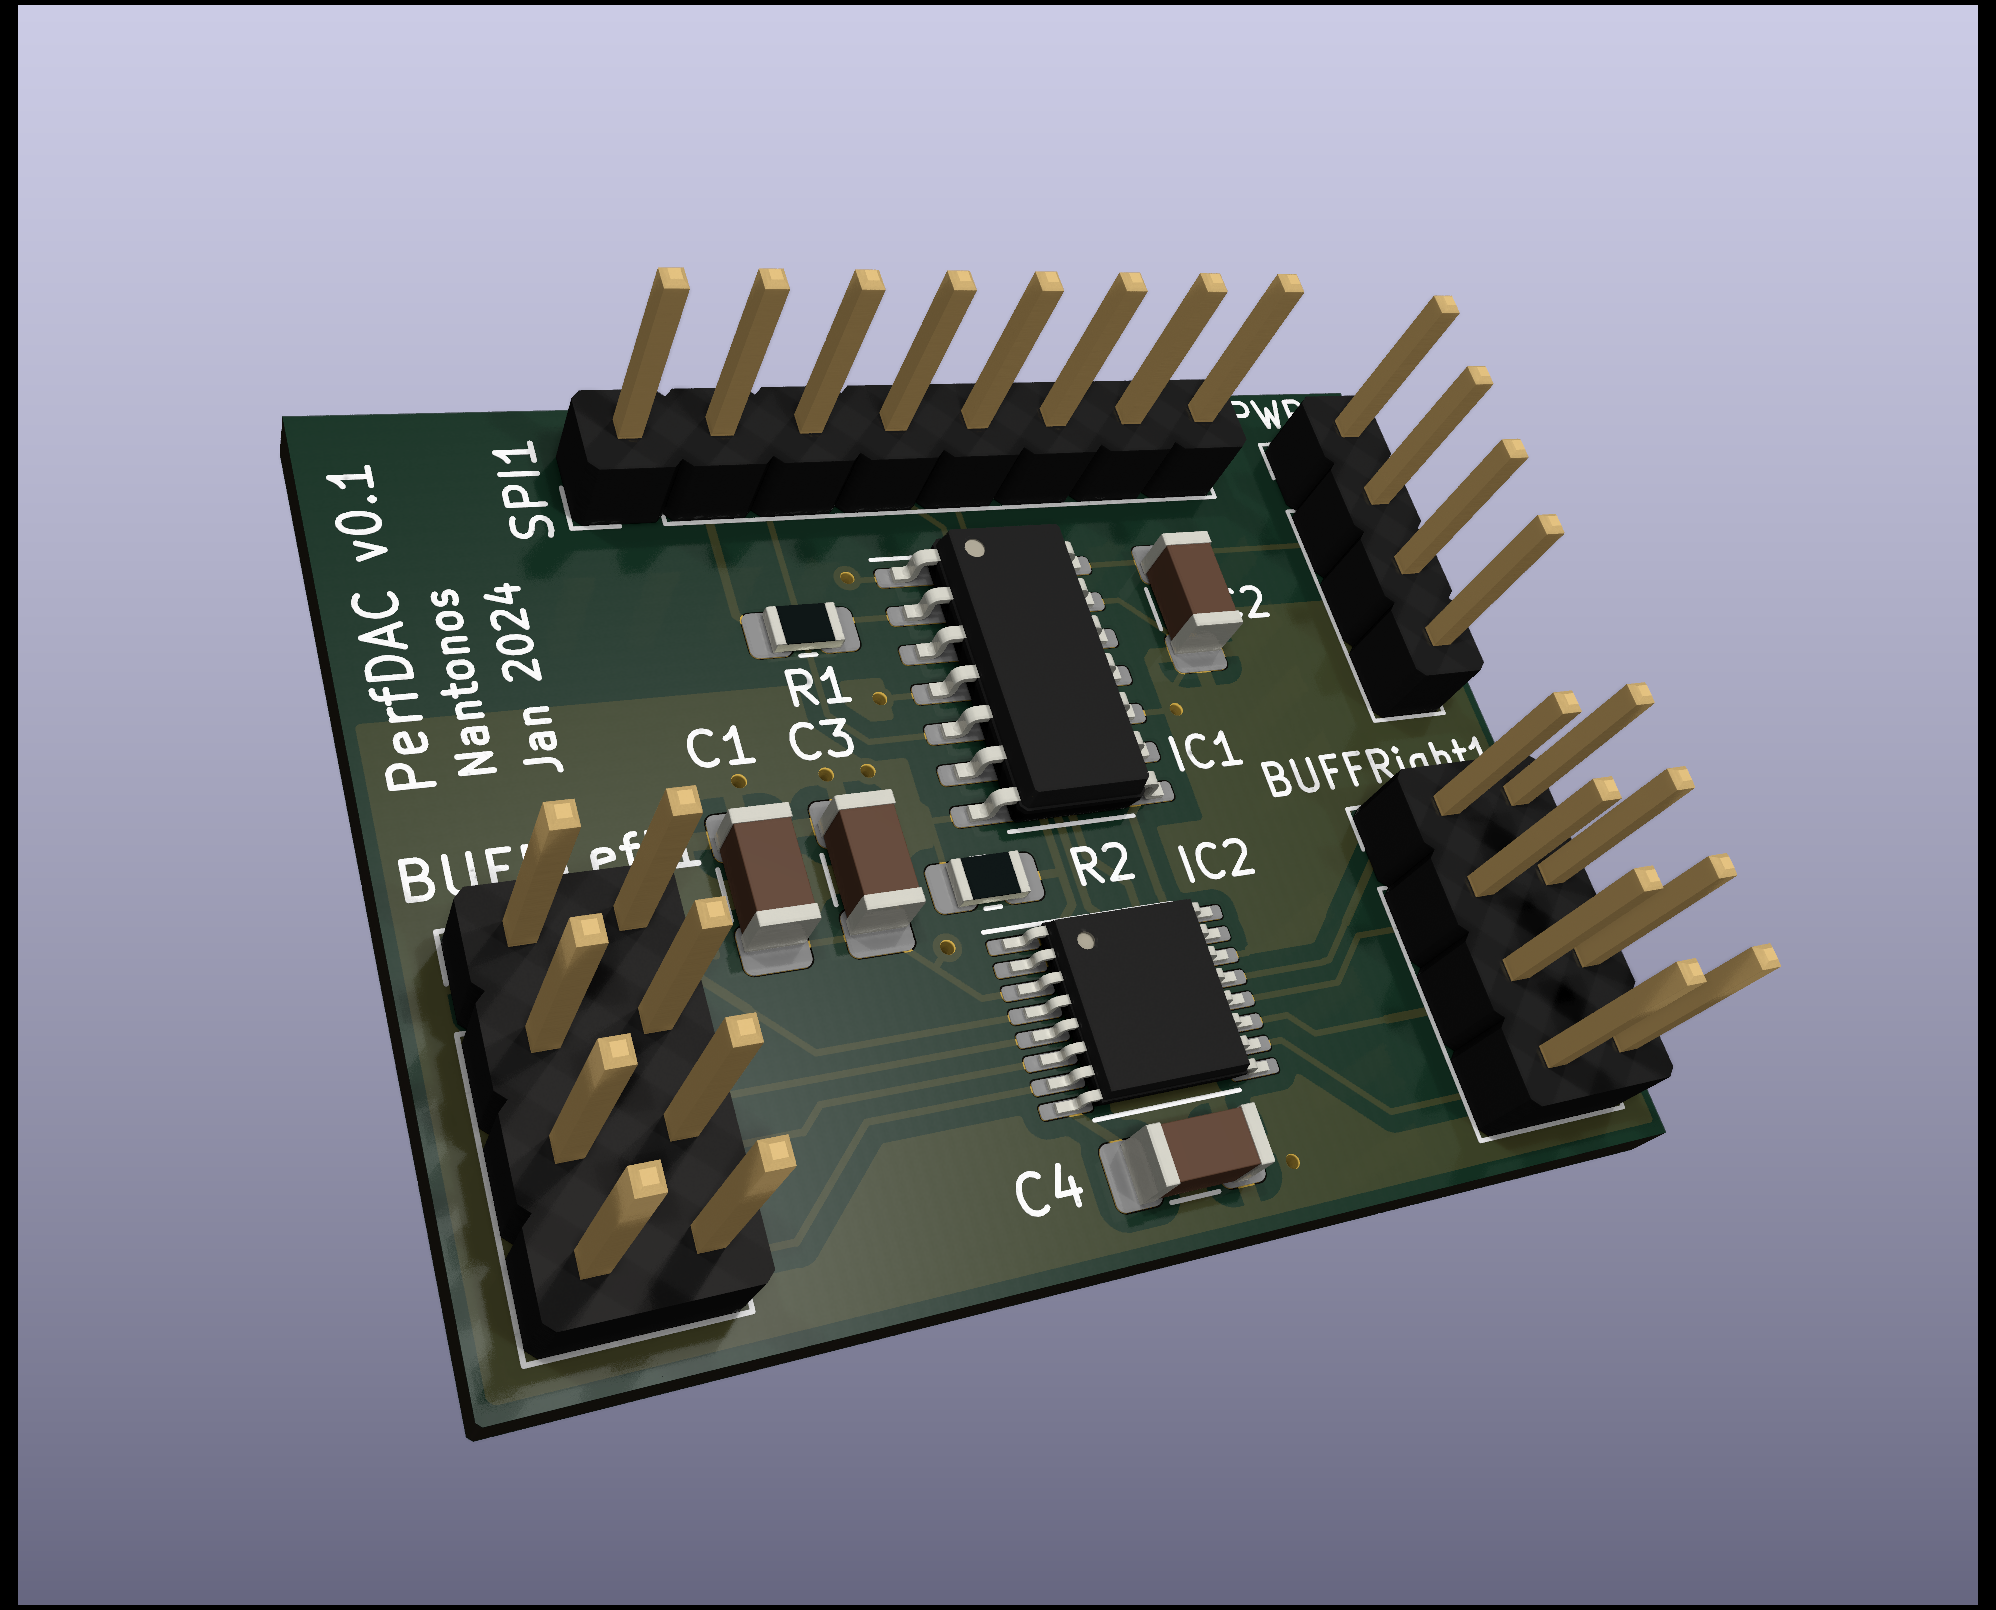
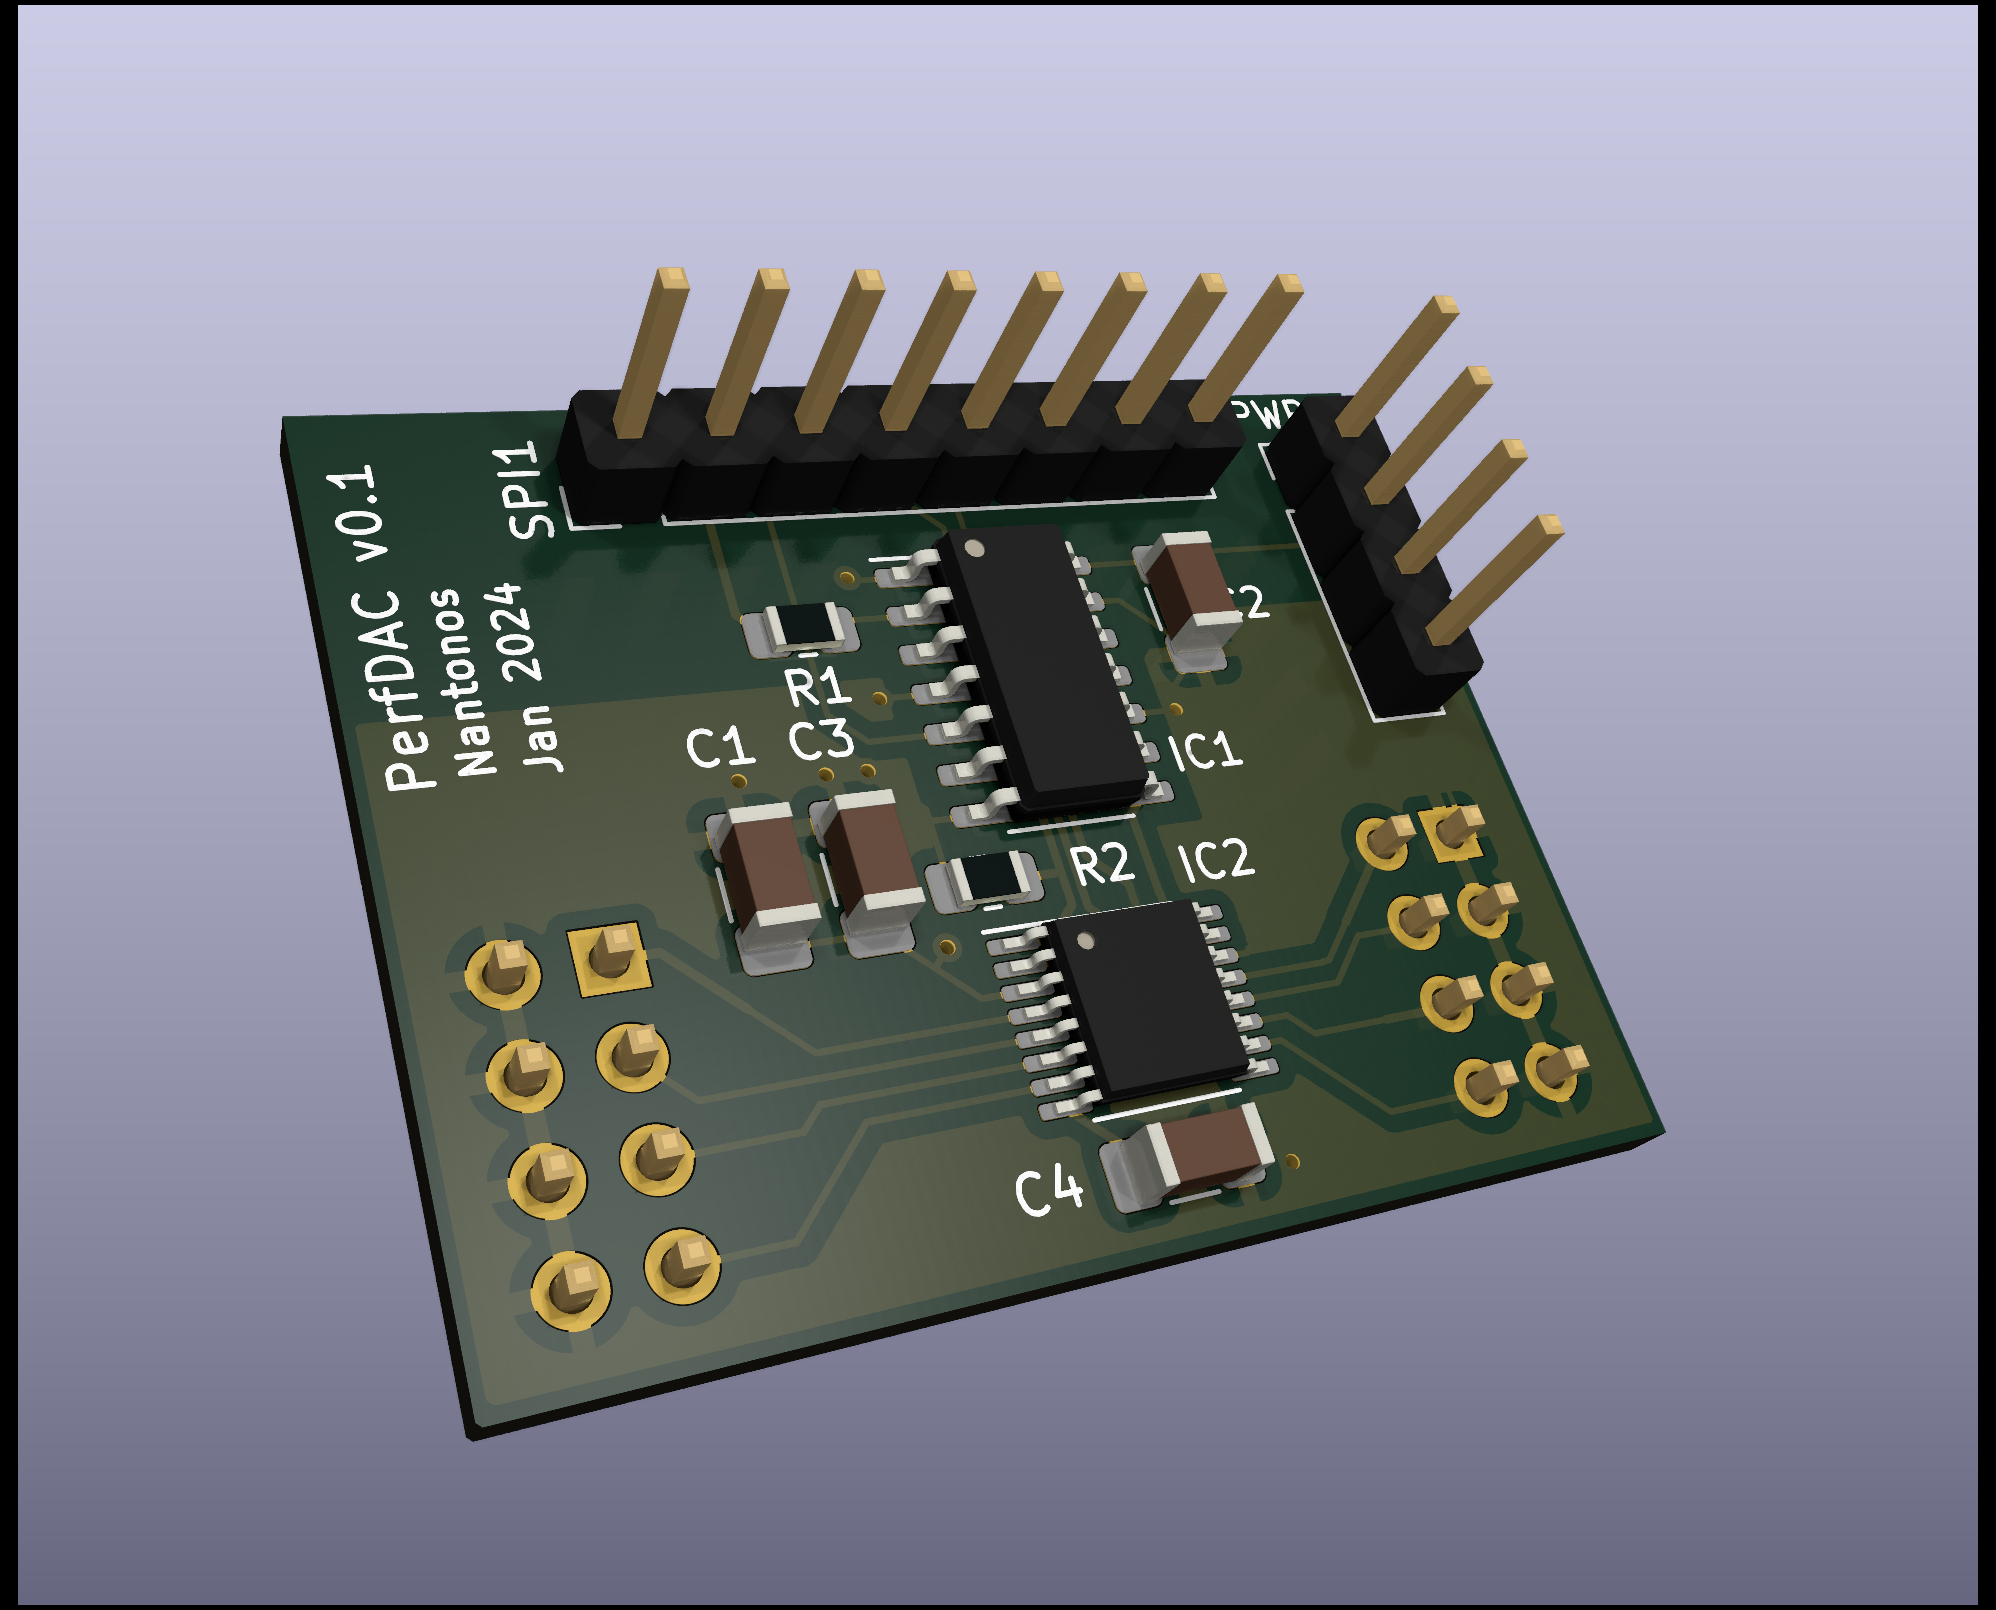
better 3d view

Changed region(s): [[0.1864, 0.4969, 0.4038, 0.8696], [0.6212, 0.4037, 0.9008, 0.7143]]

diff --git a/Duophonic/performance-dac.md b/Duophonic/performance-dac.md
@@ -106,6 +106,8 @@ Uses half the amount of op-amps (one per output). Needs testing.
 
 Capture some MIDI output from the Roli Seaboard to see what rate of changes is sent on changes in pressure etc; suspect it is fairly slow (and 7bit).
 
+Test using pitch bend, or slow filter sweeps with some resonance
+
 Remember same board is used for the analog general CC CV section, so also capture some data on that (mod wheel, breath, etc). Some of these are 14bit CC:
 
 - Modulation Wheel (CC01+CC33)
@@ -183,7 +185,11 @@ Better to bring out LDAC through level shifter so there is flexibility on contro
 
 ![bottom](img/PerfDAC-bottom-osh.png)
 
+3D views, front and back
+
 ![3D](img/PerfDAC-3D.png)
+
+![3D back](img/PerfDAC-3D-back.png)
 
 _Notice that the buffer board connections should be on the other side of the board!_
 
